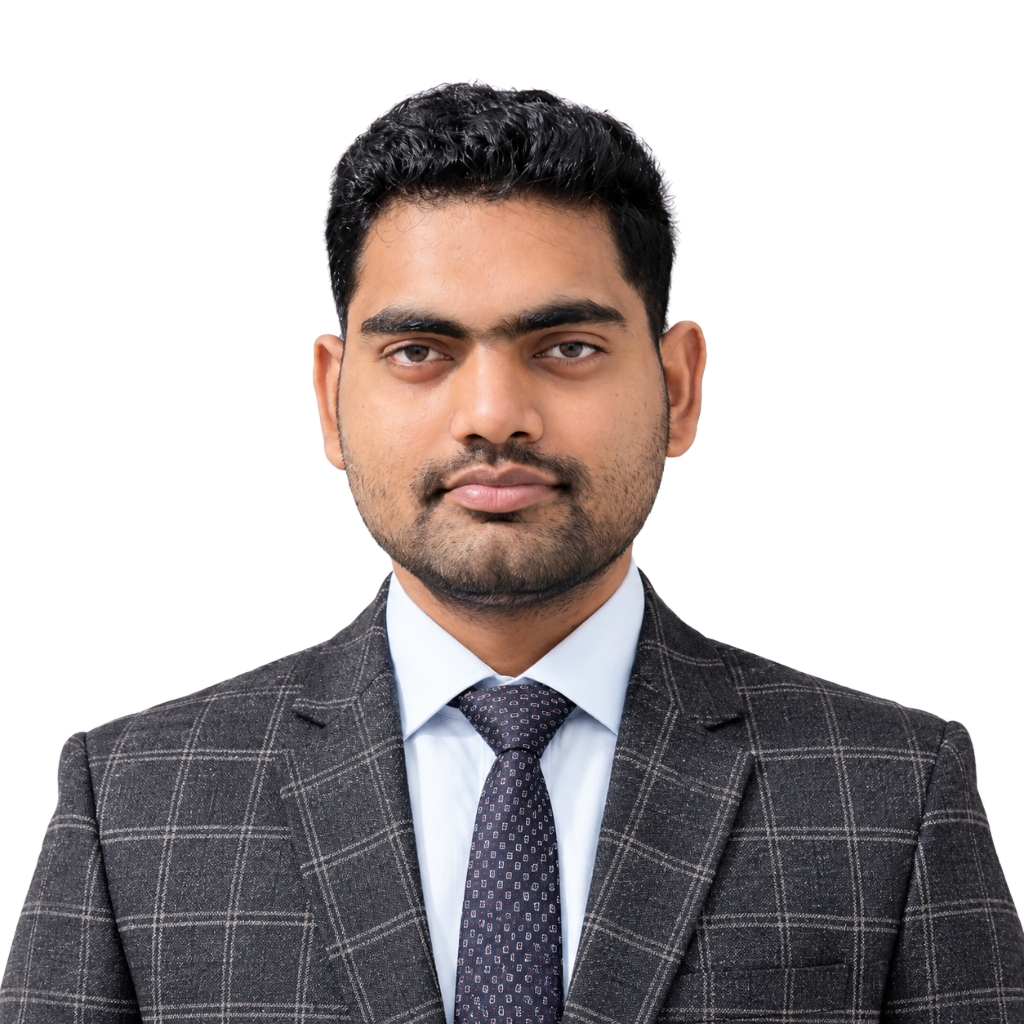
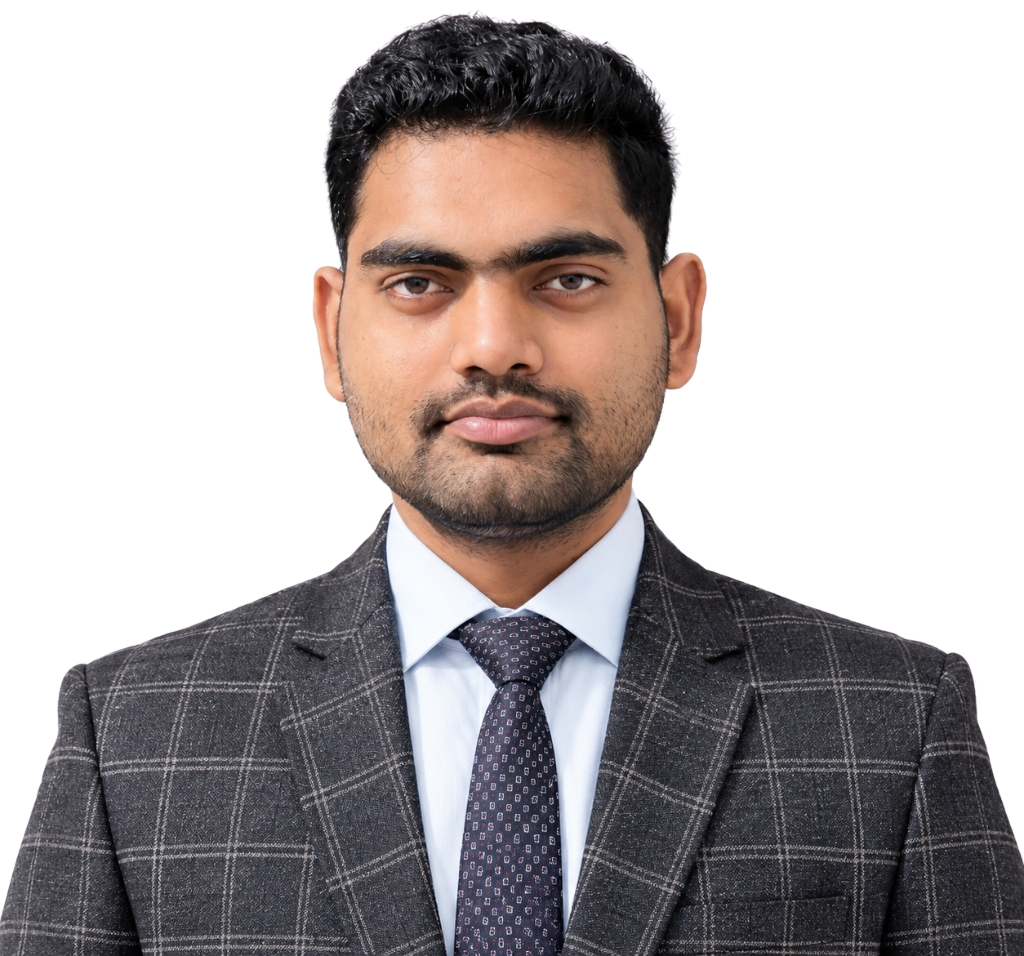
push

Changed region(s): [[0.0, 0.0, 1.0, 1.0]]

diff --git a/src/components/home/HeroPortrait.tsx b/src/components/home/HeroPortrait.tsx
@@ -89,7 +89,7 @@ export const HeroPortrait: React.FC = () => {
       onMouseMove={handleMouseMove}
       onMouseEnter={() => setIsHovered(true)}
       onMouseLeave={handleMouseLeave}
-      className="relative flex items-center justify-center p-2 sm:p-4 select-none cursor-pointer group w-full"
+      className="relative flex items-center justify-center px-2 sm:px-4 pt-0 pb-2 select-none cursor-pointer group w-full"
       style={{ perspective: 1200 }}
     >
       {/* Pure Frameless Subject with 3D Tilt - 100% Free of cards and background shapes */}
@@ -104,7 +104,7 @@ export const HeroPortrait: React.FC = () => {
       >
         {/* Natural subtle drop shadow - Zero background glow spillover */}
         <div 
-          className="relative w-full aspect-square transition-transform duration-500 ease-out group-hover:scale-104 drop-shadow-[0_20px_35px_rgba(36,33,29,0.18)]"
+          className="relative w-full aspect-[1024/956] transition-transform duration-500 ease-out group-hover:scale-104 drop-shadow-[0_20px_35px_rgba(36,33,29,0.18)]"
         >
           {/* Bottom Fade Mask Container */}
           <div
@@ -116,7 +116,7 @@ export const HeroPortrait: React.FC = () => {
           >
             {/* Cutout Image - Natural, crisp, professional enhancement on hover */}
             <img
-              src="/ansh-cutout.png?v=1"
+              src="/ansh-cutout.png?v=2"
               alt="Ansh Sahu - Frontend Developer"
               className="w-full h-full object-contain object-bottom transition-all duration-300"
               style={{
@@ -133,8 +133,8 @@ export const HeroPortrait: React.FC = () => {
                 opacity: isHovered ? 0.45 : 0,
                 background: `radial-gradient(circle 260px at ${cursorPos.x}% ${cursorPos.y}%, ${currentLight.primary} 0%, ${currentLight.secondary} 50%, transparent 80%)`,
                 mixBlendMode: 'soft-light',
-                maskImage: 'url(/ansh-cutout.png?v=1)',
-                WebkitMaskImage: 'url(/ansh-cutout.png?v=1)',
+                maskImage: 'url(/ansh-cutout.png?v=2)',
+                WebkitMaskImage: 'url(/ansh-cutout.png?v=2)',
                 maskSize: 'contain',
                 WebkitMaskSize: 'contain',
                 maskRepeat: 'no-repeat',
@@ -151,8 +151,8 @@ export const HeroPortrait: React.FC = () => {
                 opacity: isHovered ? 0.22 : 0,
                 background: `radial-gradient(circle 180px at ${cursorPos.x}% ${cursorPos.y}%, ${currentLight.highlight} 0%, transparent 75%)`,
                 mixBlendMode: 'overlay',
-                maskImage: 'url(/ansh-cutout.png?v=1)',
-                WebkitMaskImage: 'url(/ansh-cutout.png?v=1)',
+                maskImage: 'url(/ansh-cutout.png?v=2)',
+                WebkitMaskImage: 'url(/ansh-cutout.png?v=2)',
                 maskSize: 'contain',
                 WebkitMaskSize: 'contain',
                 maskRepeat: 'no-repeat',

diff --git a/src/pages/public/HomePage.tsx b/src/pages/public/HomePage.tsx
@@ -272,7 +272,7 @@ export const HomePage: React.FC = () => {
       {/* ========================================================
           1. ELEGANT REALISTIC HERO SECTION (CLEAN & PROFESSIONAL)
           ======================================================== */}
-      <section className="relative w-full min-h-[70vh] sm:min-h-[75vh] lg:min-h-[80vh] flex items-center justify-center py-12 sm:py-16 lg:py-20 bg-[#FEFAE0] overflow-hidden border-b border-[#CCD5AE]/60">
+      <section className="relative w-full min-h-[60vh] sm:min-h-[68vh] lg:min-h-[75vh] flex items-center justify-center pt-4 pb-12 sm:pt-6 sm:pb-14 lg:pt-8 lg:pb-16 bg-[#FEFAE0] overflow-hidden border-b border-[#CCD5AE]/60">
         
         {/* Soft Natural Ambient Light (No squares, no lines) */}
         <div className="absolute top-1/4 -left-20 w-80 sm:w-96 h-80 sm:h-96 bg-[#CCD5AE]/30 rounded-full blur-3xl pointer-events-none -z-10" />
@@ -286,7 +286,7 @@ export const HomePage: React.FC = () => {
               initial={{ opacity: 0, scale: 0.95 }}
               animate={{ opacity: 1, scale: 1 }}
               transition={{ duration: 0.7, ease: [0.16, 1, 0.3, 1] }}
-              className="lg:col-span-5 flex items-center justify-center lg:justify-start relative py-4 sm:py-6 order-1 lg:order-1"
+              className="lg:col-span-5 flex items-center justify-center lg:justify-start relative pt-0 pb-2 sm:pb-4 order-1 lg:order-1"
             >
               <HeroPortrait />
             </motion.div>
